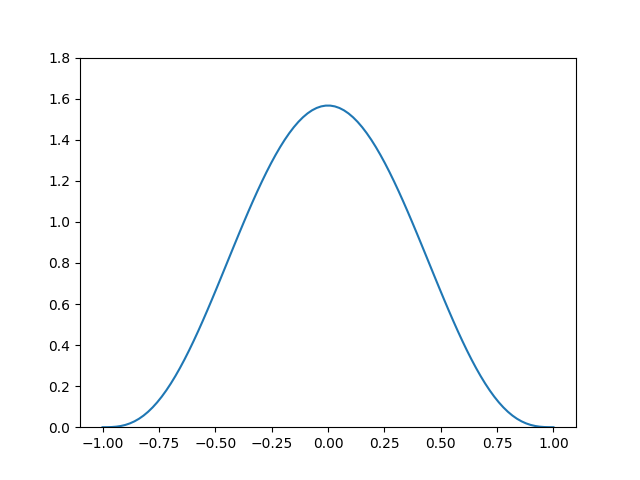
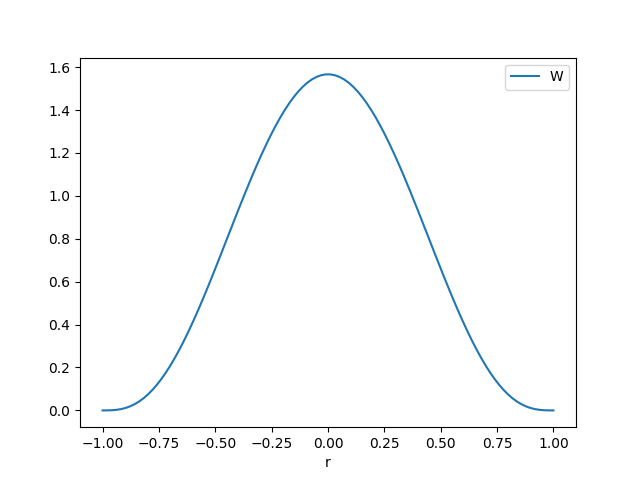
-

diff --git a/compscieng/compscieng_app40sph/compscieng_app40sph.html b/compscieng/compscieng_app40sph/compscieng_app40sph.html
@@ -144,11 +144,10 @@ F_i^{\textrm{ağdalık}} = \mu \sum_j m_j \frac{u_j-u_i}{\rho_j} \nabla^2 W (r_i
 $$</p>
 <p>daha uygun olur.</p>
 <p>Çekirdek Fonksiyon Seçimi</p>
-<p>[2] yazarının belirttiği gibi SPH'in stabilitesi, doğruluğu ve hesap hızı
-pürüzleştirme çekirdeğinin doğru seçilmiş olmasına bağlı. Çekirdek
-fonksiyonlarını hangisinin, hangi durumlarda iyi olacağı aktif bir araştırma
-alanıdır. Yaygın kullanılan bir çekirdek poly6 ismiyle bilinen 6. derece polinom
-çekirdeğidir. Bu fonksiyon,</p>
+<p>SPH'in stabilitesi, doğruluğu ve hesap hızı pürüzleştirme çekirdeğinin doğru
+seçilmiş olmasına bağlı [2]. Çekirdek fonksiyonlarını hangisinin, hangi
+durumlarda iyi olacağı aktif bir araştırma alanıdır. Yaygın kullanılan bir
+çekirdek <code>poly6</code> ismiyle bilinen 6. derece polinom çekirdeği. Bu fonksiyon,</p>
 <p>$$
 W_{poly6} (r, h) = \frac{315}{64 \pi h^9}
 \left\{ \begin{array}{ll}
@@ -156,12 +155,12 @@ W_{poly6} (r, h) = \frac{315}{64 \pi h^9}
 0 &amp; ||r|| &gt; h
 \end{array} \right.
 $$</p>
-<p>Fonksiyonun gradyanı,</p>
+<p>Gradyanı,</p>
 <p>$$
 \nabla W (r, h) =
 - \frac{945}{32 \pi h^9} r ( h^2 - ||r||^2)^2
 $$</p>
-<p>Laplasyan ise,</p>
+<p>Laplasyanı ise,</p>
 <p>$$
 \nabla^2 W (r, h) =
 - \frac{945}{32\pi h^9} (h^2 - ||r||^2)(3 h^2 - 7||r||^2)
@@ -169,15 +168,17 @@ $$</p>
 <p>Tek boyutta ve $h=1$ üzerinden her üç fonksiyonu grafikleyebiliriz,</p>
 <pre><code class="python">r = np.linspace(-1,1,100)
 h = 1
-W = (315./(64*np.pi*h**9)) * (h**2 - np.abs(r)**2)**3
-plt.plot(r,W)
-plt.ylim(0,1.8)
+import pandas as pd
+df = pd.DataFrame(r)
+df.columns = ['r']
+df['W'] = (315./(64*np.pi*h**9)) * (h**2 - np.abs(r)**2)**3
+df = df.set_index('r')
+df.plot()
 plt.savefig('compscieng_app40sph_01.png')
 </code></pre>
 
 <p><img alt="" src="compscieng_app40sph_01.png" /></p>
-<pre><code class="python">import pandas as pd
-df = pd.DataFrame(r)
+<pre><code class="python">df = pd.DataFrame(r)
 df.columns = ['r']
 df['W'] = (315./(64*np.pi*h**9)) * (h**2 - np.abs(r)**2)**3
 df['Gradyan W'] = -945./(32*np.pi*h**9) * r * (h**2 - np.abs(r)**2)**2

diff --git a/compscieng/compscieng_app40sph/puruzlestirilmis_parcacik_hidrodinamigi__smoothed_particle_hydrodynamics_sph_.html b/compscieng/compscieng_app40sph/puruzlestirilmis_parcacik_hidrodinamigi__smoothed_particle_hydrodynamics_sph_.html
@@ -144,11 +144,10 @@ F_i^{\textrm{ağdalık}} = \mu \sum_j m_j \frac{u_j-u_i}{\rho_j} \nabla^2 W (r_i
 $$</p>
 <p>daha uygun olur.</p>
 <p>Çekirdek Fonksiyon Seçimi</p>
-<p>[2] yazarının belirttiği gibi SPH'in stabilitesi, doğruluğu ve hesap hızı
-pürüzleştirme çekirdeğinin doğru seçilmiş olmasına bağlı. Çekirdek
-fonksiyonlarını hangisinin, hangi durumlarda iyi olacağı aktif bir araştırma
-alanıdır. Yaygın kullanılan bir çekirdek poly6 ismiyle bilinen 6. derece polinom
-çekirdeğidir. Bu fonksiyon,</p>
+<p>SPH'in stabilitesi, doğruluğu ve hesap hızı pürüzleştirme çekirdeğinin doğru
+seçilmiş olmasına bağlı [2]. Çekirdek fonksiyonlarını hangisinin, hangi
+durumlarda iyi olacağı aktif bir araştırma alanıdır. Yaygın kullanılan bir
+çekirdek <code>poly6</code> ismiyle bilinen 6. derece polinom çekirdeği. Bu fonksiyon,</p>
 <p>$$
 W_{poly6} (r, h) = \frac{315}{64 \pi h^9}
 \left\{ \begin{array}{ll}
@@ -156,12 +155,12 @@ W_{poly6} (r, h) = \frac{315}{64 \pi h^9}
 0 &amp; ||r|| &gt; h
 \end{array} \right.
 $$</p>
-<p>Fonksiyonun gradyanı,</p>
+<p>Gradyanı,</p>
 <p>$$
 \nabla W (r, h) =
 - \frac{945}{32 \pi h^9} r ( h^2 - ||r||^2)^2
 $$</p>
-<p>Laplasyan ise,</p>
+<p>Laplasyanı ise,</p>
 <p>$$
 \nabla^2 W (r, h) =
 - \frac{945}{32\pi h^9} (h^2 - ||r||^2)(3 h^2 - 7||r||^2)
@@ -169,15 +168,17 @@ $$</p>
 <p>Tek boyutta ve $h=1$ üzerinden her üç fonksiyonu grafikleyebiliriz,</p>
 <pre><code class="python">r = np.linspace(-1,1,100)
 h = 1
-W = (315./(64*np.pi*h**9)) * (h**2 - np.abs(r)**2)**3
-plt.plot(r,W)
-plt.ylim(0,1.8)
+import pandas as pd
+df = pd.DataFrame(r)
+df.columns = ['r']
+df['W'] = (315./(64*np.pi*h**9)) * (h**2 - np.abs(r)**2)**3
+df = df.set_index('r')
+df.plot()
 plt.savefig('compscieng_app40sph_01.png')
 </code></pre>
 
 <p><img alt="" src="compscieng_app40sph_01.png" /></p>
-<pre><code class="python">import pandas as pd
-df = pd.DataFrame(r)
+<pre><code class="python">df = pd.DataFrame(r)
 df.columns = ['r']
 df['W'] = (315./(64*np.pi*h**9)) * (h**2 - np.abs(r)**2)**3
 df['Gradyan W'] = -945./(32*np.pi*h**9) * r * (h**2 - np.abs(r)**2)**2
